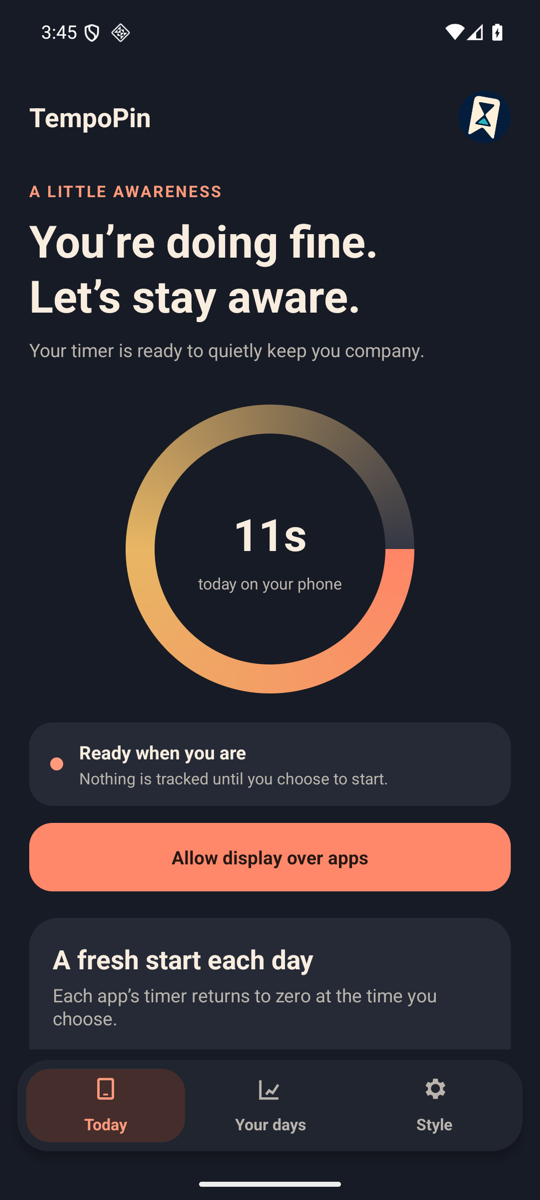
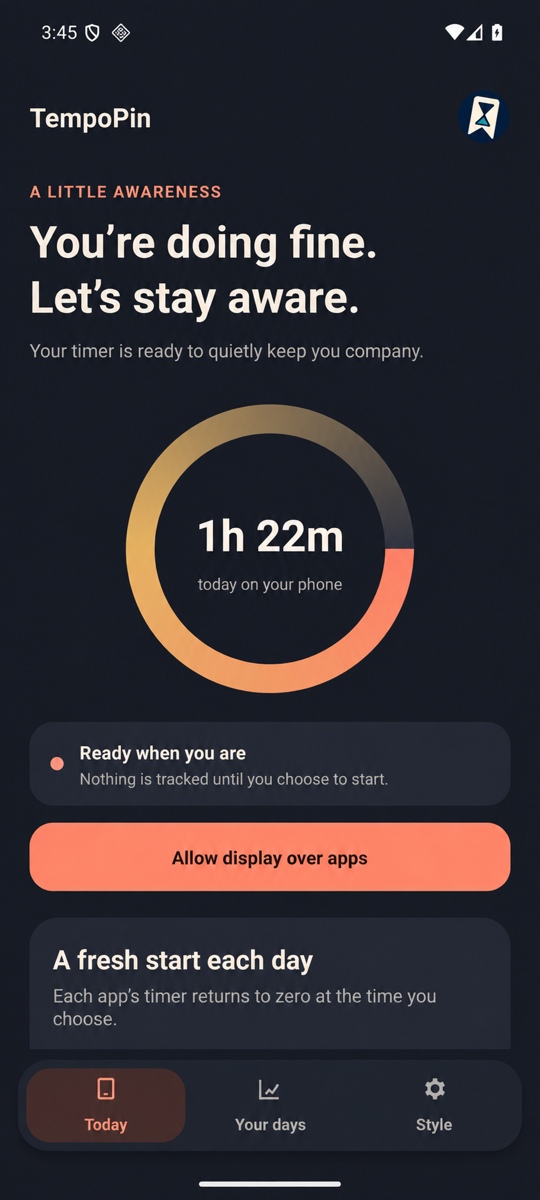
Use realistic daily screen time in website visuals

diff --git a/app/page.tsx b/app/page.tsx
@@ -44,7 +44,7 @@ export default function Home() {
           <div className="fact-card"><span className="fact-icon"><Activity size={25} aria-hidden="true" /></span><div><strong>{s.daily_reset_title}</strong><span>{s.daily_reset_description}</span></div></div>
         </div>
         <div className="today-visual">
-          <div className="ring-figure" aria-hidden="true"><span className="ring-center"><strong>11s</strong><small>{s.control_today_summary_label}</small></span></div>
+          <div className="ring-figure" aria-hidden="true"><span className="ring-center"><strong>1h 22m</strong><small>{s.control_today_summary_label}</small></span></div>
           <div className="ready-card"><span className="ready-dot" /><span><strong>{s.control_actions_title}</strong><small>{s.control_actions_description}</small></span></div>
           <div className="overlay-example"><span>{s.appearance_style_title}</span><strong>00:42:18</strong><small>↳ 00:08:41</small></div>
         </div>
